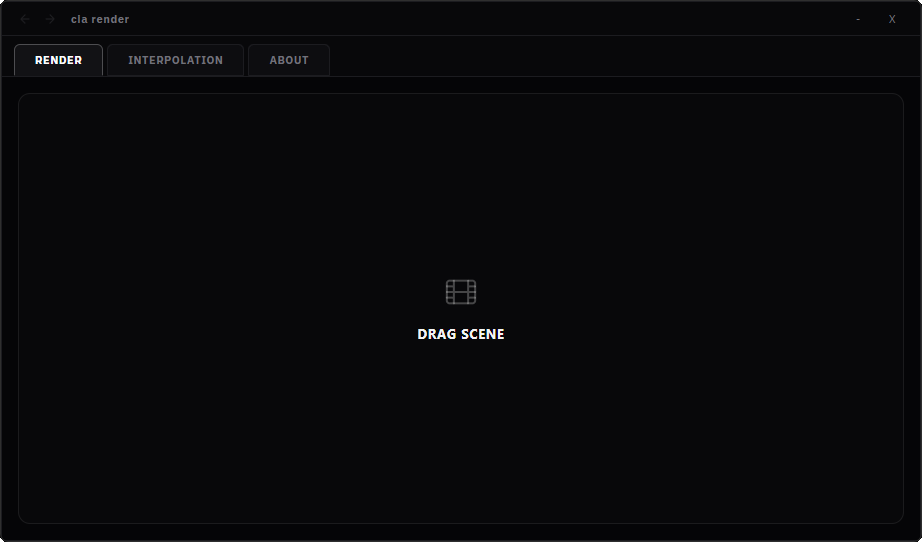
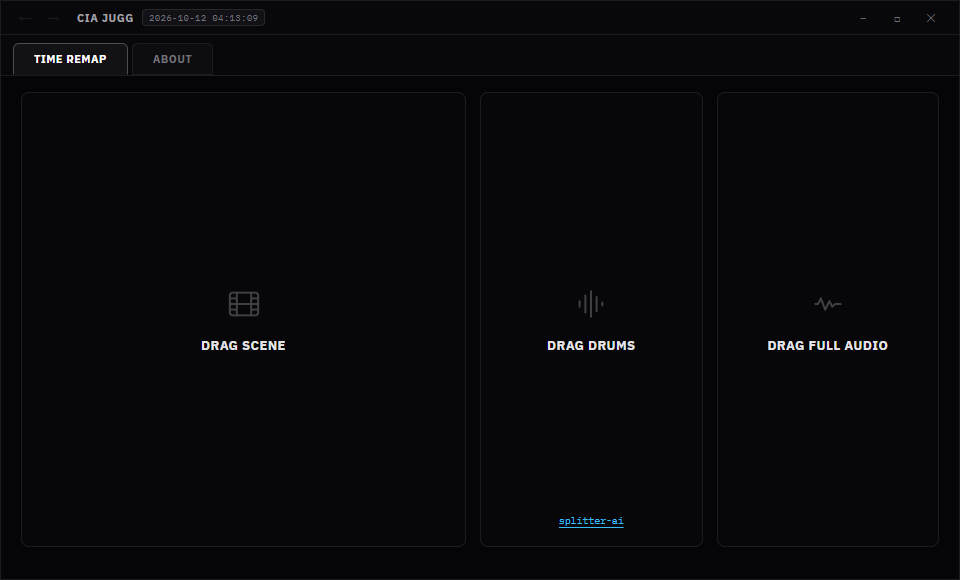
Prepare signed Windows release 1.0.4

diff --git a/docs/RELEASE_1.0.4.md b/docs/RELEASE_1.0.4.md
@@ -1,0 +1,21 @@
+# cia jugg v1.0.4
+
+This release updates the Windows application and the main source branch to the validated rendering engine.
+
+## Changes
+
+- Fix `Invalid action window` render failures caused by floating-point timestamp rounding. Analysis bounds action windows to the selected scene, and validation tolerates numerical drift while rejecting invalid metadata.
+- Add motion-aware ScenePack and Long Clip scheduling. The default-enabled `no repeatitive scene` option favors fresh useful footage and discourages early repetition with a flexible eight-second target.
+- Remove exactly pure black and white source frames in ScenePack while retaining near-blank detail and native timestamps.
+- Add `OPEN FILE` and make `RENDER AGAIN` start processing directly.
+- Correct effect toggles, complete style presets, transition parameters and source-local extraction.
+- Scope render jobs, cancellation, native processes and temporary files; bound raw/frame caches and retain output resolution.
+- Verify the native FFmpeg/FFprobe and beat/ONNX payload and updater artifact signatures.
+
+## Download
+
+[Windows x64 installer](https://github.com/ssdme/cia-app-jugg/releases/download/v1.0.4/cia.jugg_1.0.4_x64-setup.exe)
+
+The installer includes the native video and beat-analysis runtime. The release also provides its updater signature, `latest.json` and `SHA256SUMS.txt`.
+
+The updater uses the existing public key. Source code and installation assets target the same release commit. Text Studio remains disabled; the separate compositing experiments are not included in this release.

diff --git a/README.md b/README.md
@@ -32,7 +32,7 @@ All processing runs locally on the host machine. The application bundles its own
 
 ## UX
 
-![cia jugg ux](docs/preview.png?v=1.0.3)
+![cia jugg ux](docs/preview.png?v=1.0.4)
 
 ---
 
@@ -54,6 +54,7 @@ All processing runs locally on the host machine. The application bundles its own
 - **HYBRID**: Alternating snap-and-saddle curve profile with dynamic acceleration.
 
 ### Scene Selection
+- **1.0.4 fix**: Action windows are clamped to selected scene bounds, with numerical tolerance for timestamp rounding, preventing spurious `Invalid action window` render failures.
 - **ScenePack**: The default-enabled `no repeatitive scene` option adapts shot length to visual activity and beats. It favors unused passages and discourages early replays around a flexible eight-second target. Sparse footage can still loop without forced freeze padding.
 - **Motion guidance**: ScenePack and Long Clip select useful motion windows and reduce remap emphasis on still frames. No Change uses the original path.
 - **Source filtering**: ScenePack removes exactly pure black/white native frames, including internal gaps, while retaining near-blank detail. Analysis is cached for unchanged media.
